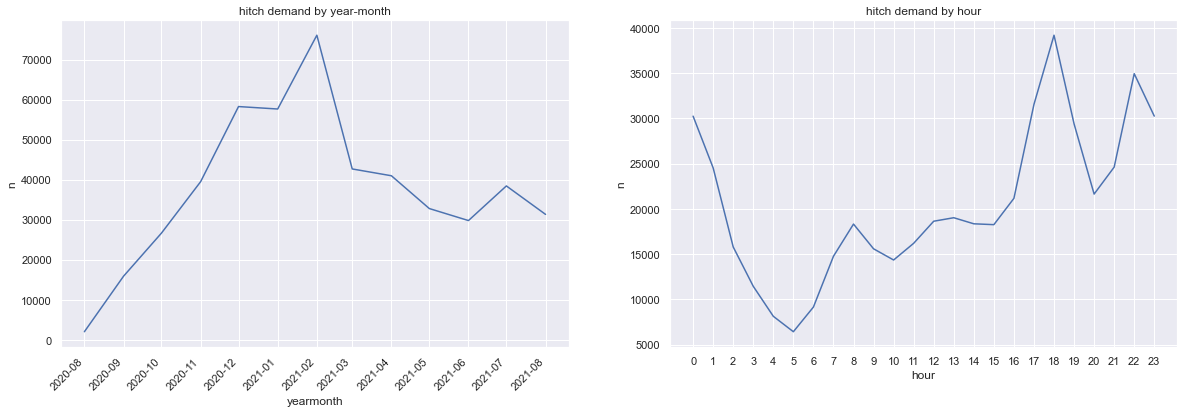
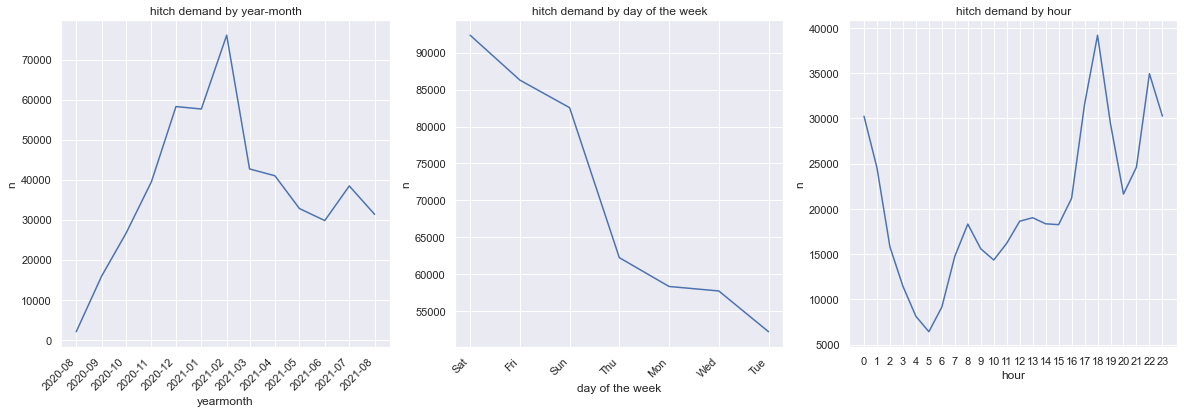
new post

diff --git a/projects/_posts/2021-09-20-hitch-ridersip-demand.md b/projects/_posts/2021-09-20-hitch-ridersip-demand.md
@@ -1,10 +1,10 @@
 ---
 layout: draft
-title: "Extracting hitch demand from online hitch communities"
+title: "Extracting ridership demand from online hitch communities"
 date: 2021-09-20
 tag: [cities, communities, dataviz]
-# image: /assets/posts/2021-08-18-visualising-sg-anti-vax-communities/word_network_B.png
-description: "Extracting hitch hitch demand from a Singapore-based telegram group."
+image: /assets/posts/2021-09-20-hitch-ridersip-demand/sg-hitch-avgdist.png
+description: "Extracting hitch ridership demand from a Singapore-based telegram group."
 permalink: /projects/extracting-hitch-ridership-demand
 ---
 
@@ -31,13 +31,13 @@ Having extracted the OD pairs, the next challenge is to translate them from natu
 
     Using a simple regex filter, the 6-digit postal code of the origin and destination can be extracted from the text message.
 
-2. **Fuzzy matching**
-
-    As the ODs will be aggregated to subzones, using fuzzy matching allows comparison with the ODs to the list of subzones in Singapore. Fuzzy matching accounts for the messy nature of textual data as it can accommodate for spelling mistakes. The python package [TheFuzz](https://github.com/seatgeek/thefuzz) was used which employs the Levenshtein distance statistic to calculate the difference between two strings. A threshold score of 90 was set for acceptable results using this method.
-
-3. **OneMap API**
+2. **OneMap API**
 
     [OneMap by the Singapore Land Authority](https://www.onemap.gov.sg/home/index.html) helpfully provides a search API for retrieving geospatial information given a text query or postal code. For simplicity, the first result is taken for each search query. This step also serves as filter for invalid pick up and drop off locations. While [Google Map's Place API](https://developers.google.com/maps/documentation/places/web-service/overview) appears to be more robust in handling natural language text queries, the OneMap Search API has the advantage of being freely accessible.
+
+3. **Fuzzy matching**
+
+    To account for geospatial information not retrievable using the OneMap API, fuzzy matching was used to compare the ODs to the list of planning areas in Singapore. Fuzzy matching accounts for the messy nature of textual data as it can accommodate for spelling mistakes. The python package [TheFuzz](https://github.com/seatgeek/thefuzz) was used which employs the Levenshtein distance statistic to calculate the difference between two strings. A threshold score of 90 was set for acceptable results using this method.
 
 For additional note, some messages consist of multiple possible pick-up locations. In these instances, the first pick-up location is treated as the origin.
 
@@ -52,7 +52,7 @@ Despite the ban on hitch telegram groups, these communities have still been very
     <figcaption>Left: hitch demand by month. Right: hitch demand by hour.</figcaption>
 </figure>
 
-Hitch ridership demand peaks across the weekends and from the hourly plot, we can see that ridership demand peaks during the off-work rush hour though the same preference is not observed for the to-work early commute. In addition, the peak during the late night hours (11pm to 3am) reveals the dependence on private carpooling as an alternative transport mode after public transport services cease operations for the day.
+Hitch ridership demand peaks across the weekends and during the off-work rush hour (5pm to 7pm) though a same preference is not observed for early commute (5am to 7am). In addition, the peak during the late night hours (11pm to 3am) reveals the dependence on private carpooling as an alternative transport mode after public transport services cease operations for the day.
 
 Hitch ridership demand peaked at 76,084 in February 2021, primarily because of the Chinese New Year weekend (as seen below). However, the impact of soft lockdowns onto ridership demand is also visible such as the dip in demand in July (see below) as a result of [heightened safety measures between 22 July to 18 August 2021](https://www.gov.sg/article/as-of-20-july-2021-return-to-phase-2-heightened-alert-measures).
 
@@ -60,6 +60,30 @@ Hitch ridership demand peaked at 76,084 in February 2021, primarily because of t
     <img src="../../assets/posts/2021-09-20-hitch-ridersip-demand/hitchdemand-febjuly21.png"/>
     <figcaption>Daily hitch demand for Feb'21 and July'21.</figcaption>
 </figure>
+
+
+### Geospatial Analysis
+
+The geospatial visualisations below were produced in QGIS. The origin and destination counts were aggregated into a grid of 400m wide hexagon for easy visualisation. The hexagons that appear to be located outside of the island boundary are because they are calculated from the centroids of the planning area (lined in blue) which sometimes extends out to the sea.
+
+<figure>
+    <img src="../../assets/posts/2021-09-20-hitch-ridersip-demand/sg-hitch-origins.png"/>
+    <figcaption>Origin counts</figcaption>
+</figure>
+
+<figure>
+    <img src="../../assets/posts/2021-09-20-hitch-ridersip-demand/sg-hitch-destinations.png"/>
+    <figcaption>Destination counts</figcaption>
+</figure>
+
+From the figures above, we can see that the central business district (CBD) functions a strong trip generator and trip attractor. Choa Chu Kang is also a secondary strong trip generator and attractor.
+
+<figure>
+    <img src="../../assets/posts/2021-09-20-hitch-ridersip-demand/sg-hitch-avgdist.png"/>
+    <figcaption>Average trip distance (km) from origin to destination.</figcaption>
+</figure>
+
+In the figure above, the average distance travelled from origin is visualised. Trips with the shortest distance travelled originate from the Ang Mo Kio and Bishan areas, while trip distance increases as their origin is located on the edges of the island such as Tuas, Changi and Woodlands. 
 
 ---
 This post adds to a collection of studies exploring Telegram groups as rich sources of urban insight for policy and planning. If you enjoyed this post, do check out these other posts:
